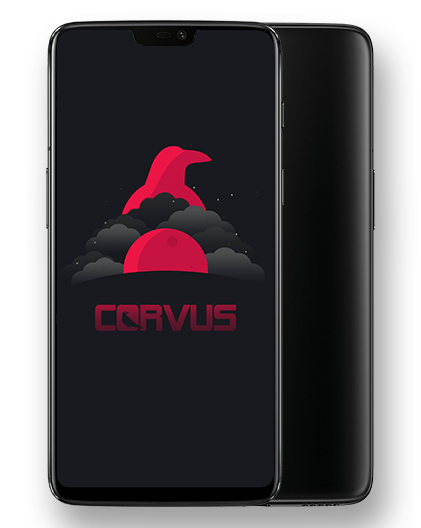
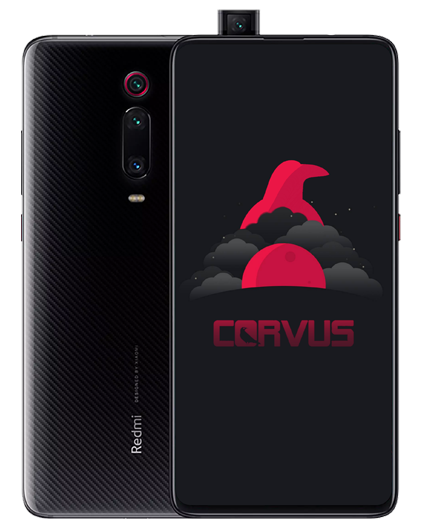
replaced header phone image

diff --git a/index.html b/index.html
@@ -708,7 +708,7 @@
                         <ul class="list-unstyled li-space-lg">                            
                             <li class="media">
                                 <i class="fas fa-square"></i>
-                                <div class="media-body">Read our <a class="turquoise" href="privacy-policy.html">Privacy Policy</a></div>
+                                <div class="media-body">Read our <a class="turquoise" href="#your-link">Privacy Policy</a></div>
 								</li>
 								<li class="media">
 								<i class="fas fa-square"></i>
